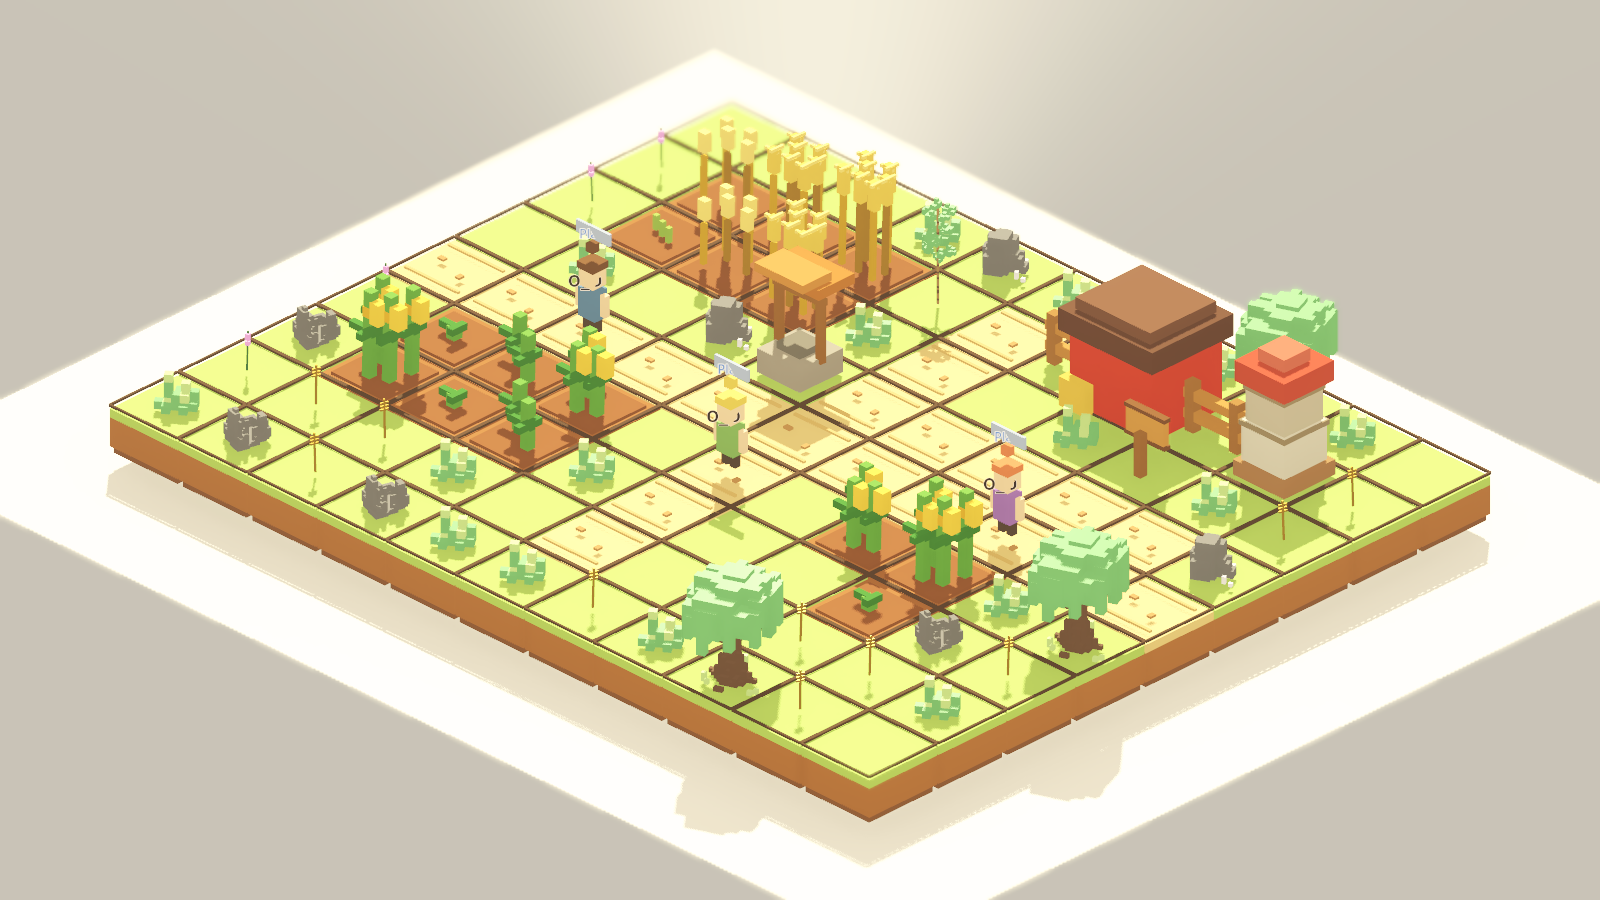
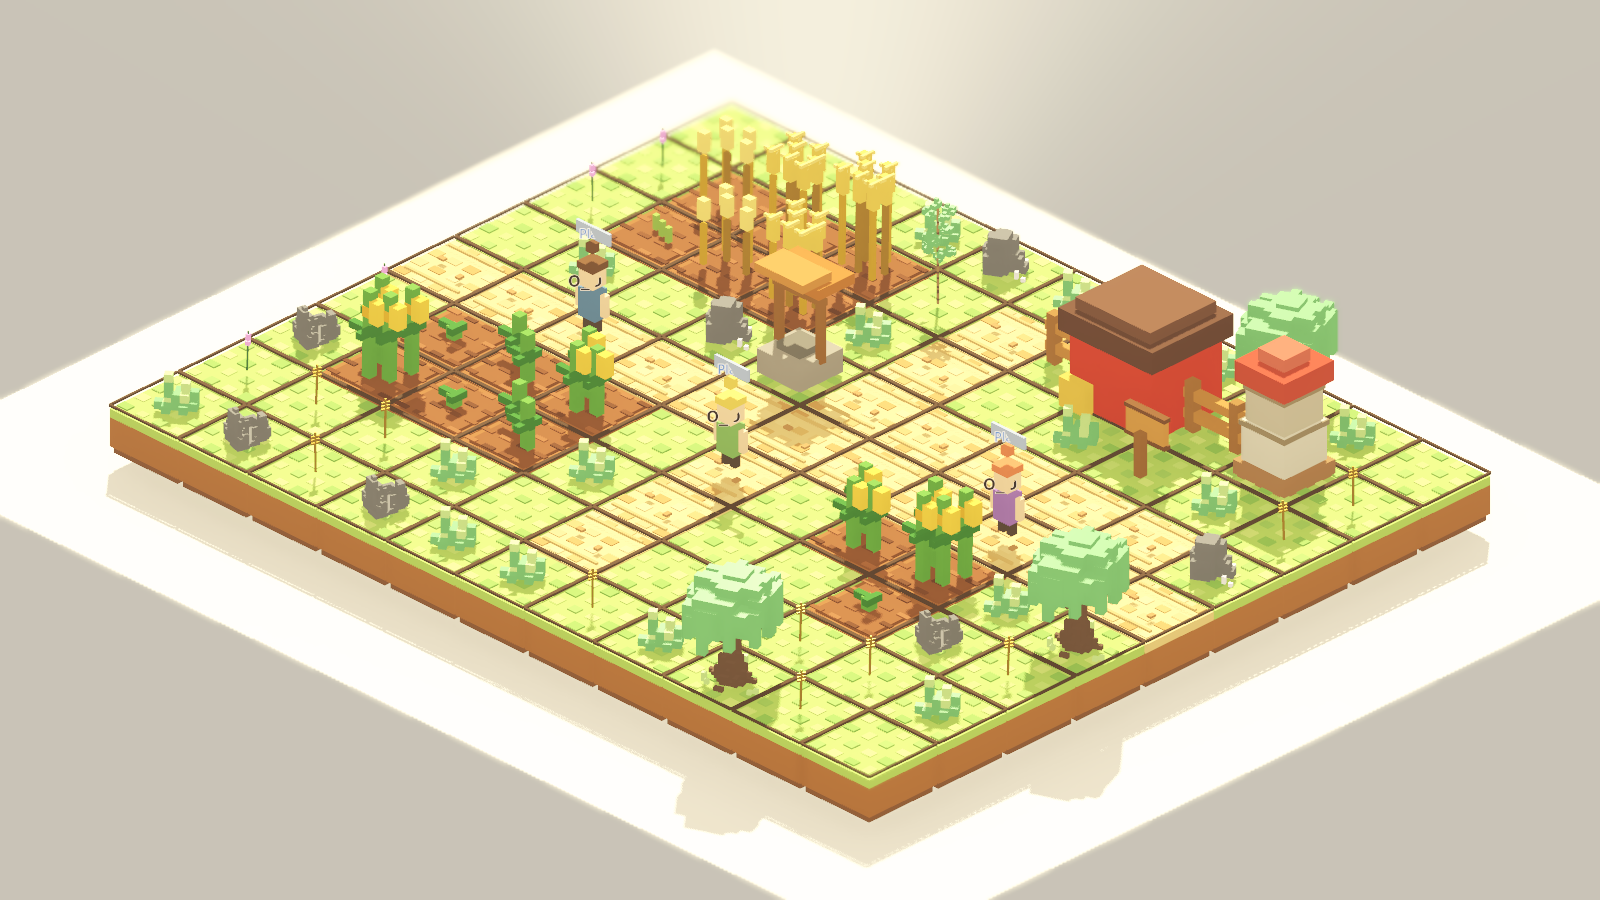
Add visual tile micro detail grid

diff --git a/godot/README.md b/godot/README.md
@@ -14,6 +14,7 @@ Small Godot 4 vertical slice for a cozy isometric voxel farm builder.
 - Use the Crops and Nature tabs to add corn, wheat, tall grass, trees, and flowers.
 - If local licensed MEGAVOXPACK files exist in `assets/megavoxpack_local_preview/`, rock, alternate-rock, flower-patch, tall-grass, alternate-tall-grass, tree, and alternate-tree props use those GLBs; otherwise they fall back to the built-in cube art. The starter map now includes named homestead-edge, silo-garden-gap, north-field, north-homestead-gap, well-garden-gap, west-field-gap, west-meadow, lower-field-gap, south-meadow, south-grove-gap, and east-grove art-direction clusters using those same one-tile-safe props, with extra south/east edge accents for a stronger MEGAVOX silhouette. Starter fences stay procedural because the available local fence asset is a multi-tile rail piece. Keep the raw pack files out of git.
 - The starter farm includes alternate grass along the left edge, one alternate tree near the fields, and one alternate rock so the optional local art direction is visible on first load without oversized imported props.
+- Farm tiles render a visual-only 4x4 micro-detail layer for grass, soil, and road surface texture while clicks, work orders, crops, NPC targets, and catalog decor stay on the original one-tile gameplay grid.
 - Click farm tiles to apply the active tool.
 - Press `End Day` to grow planted crops by one stage.
 - Harvest full corn or wheat to earn coins.
@@ -235,6 +236,7 @@ Small Godot 4 vertical slice for a cozy isometric voxel farm builder.
 - `tools/smoke_megavox_starter_capture_manifest.gd` exercises the committed MEGAVOX starter-map review manifest staying in sync with the live starter decor catalog, authored cluster order, and capture metadata.
 - `tools/smoke_crafting.gd` exercises resource spending and Fence Kit crafting.
 - `tools/smoke_ui_field_targeting.gd` exercises selecting a right-panel crew-order button and then clicking the farm field.
+- `tools/smoke_tile_micro_detail_grid.gd` exercises the visual-only 4x4 tile micro-detail layer while proving gameplay targeting still resolves to the original tile grid.
 - `tools/smoke_work_orders.gd` exercises blocked fence placement, marked fence orders, order pins, clearing/dropping order rows, gather-craft-build support, clear orders, harvest orders, tend orders, and plant orders.
 - `tools/capture_crafting.gd` captures `artifacts/screenshots/agentville-crafting.png`.
 - `tools/capture_crafting_demand.gd` captures `artifacts/screenshots/agentville-crafting-demand.png`.